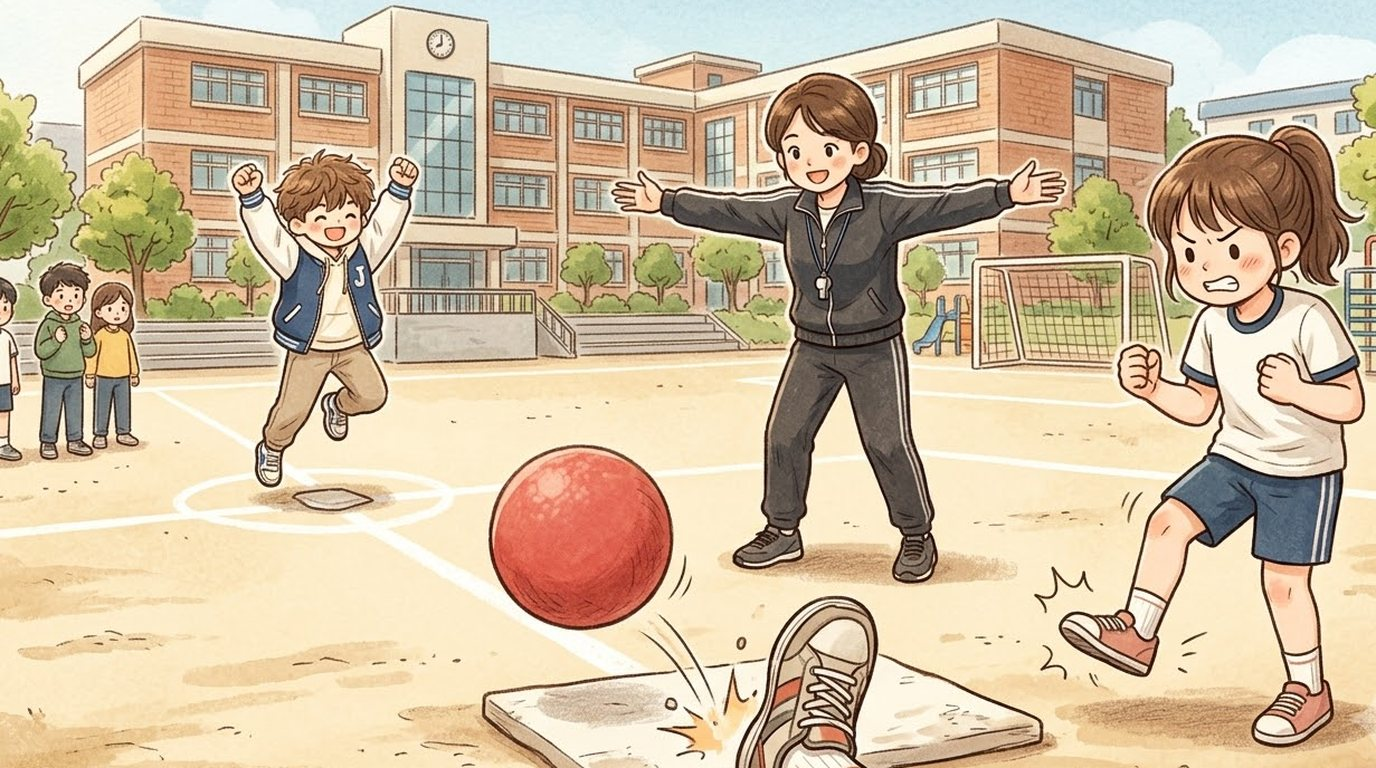
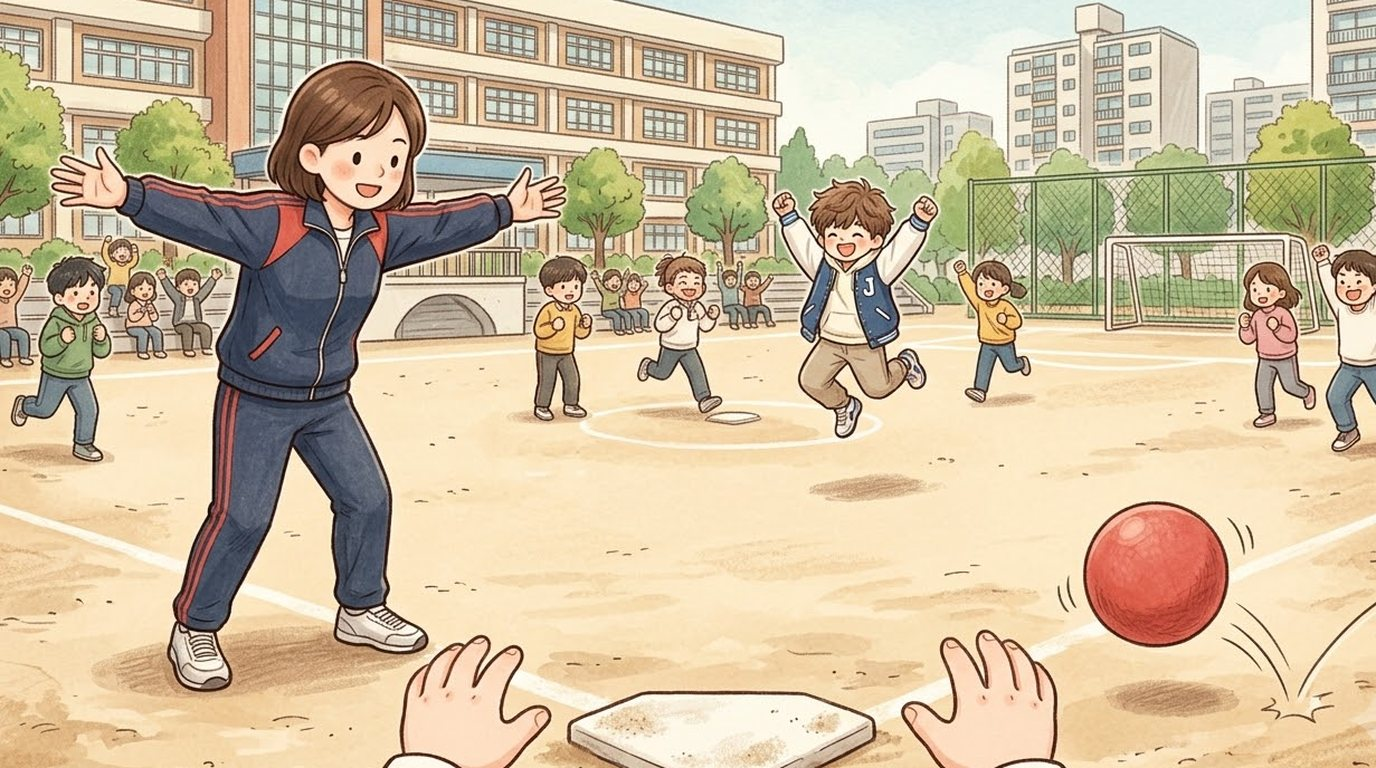
Jiho: 3 more redrawn pictures without the hero's sneakers (05b the ball flying over the goal, 05d the ball at my feet, 06 the kickball at first base)

diff --git a/index.html b/index.html
@@ -119,14 +119,14 @@ body,button{word-break:keep-all;overflow-wrap:break-word}
 <div id="fader"></div>
 <script>
 // same address, newest version: if the page this phone has kept is older than the one online, fetch the new one and reopen
-const BUILD='1027193401';
+const BUILD='1027193633';
 try{fetch(location.pathname,{cache:'no-store'}).then(r=>r.text()).then(t=>{const m=t.match(/const BUILD='(\d+)'/);if(m&&m[1]!==BUILD&&sessionStorage.getItem('upd')!==m[1]){sessionStorage.setItem('upd',m[1]);fetch(location.pathname,{cache:'reload'}).then(()=>location.reload())}}).catch(()=>{})}catch(e){}
 </script>
-<script src="i18n.js?v=1027193401"></script>
-<script src="i18n_prologue_v2.js?v=1027193401"></script>
-<script src="day2/i18n_engine.js?v=1027193401"></script>
-<script src="day2/data.js?v=1027193401"></script>
-<script src="day3/data.js?v=1027193401"></script>
+<script src="i18n.js?v=1027193633"></script>
+<script src="i18n_prologue_v2.js?v=1027193633"></script>
+<script src="day2/i18n_engine.js?v=1027193633"></script>
+<script src="day2/data.js?v=1027193633"></script>
+<script src="day3/data.js?v=1027193633"></script>
 <script>
 // ---------- data ----------
 const MW=1672,MH=941,KID=180;
@@ -531,43 +531,43 @@ function pickHero(){const m=document.getElementById('modal'),c=document.getEleme
  c.innerHTML=`<h2>${tr('괴짜교실 반장되기')}</h2><p>${tr('말 한마디 못 하는 전학생,<br>반장 선거에 나가다.')}</p><p style="margin-top:14px">${tr('누구로 할까요?')}</p>${(()=>{const s=loadSave();return s&&s.day>=2&&s.mode===UI+'-'+LANG?`<p><button class="big" id="cont">${tr(s.day+'일차부터 이어 하기')}</button></p>`:''})()}<div class="pick heroes"><button data-h="hero_f"><img src="faces/hero_f_smile.jpg" alt="여자 주인공"></button><button data-h="hero_m"><img src="faces/hero_m_smile.jpg" alt="남자 주인공"></button></div>`;
  m.classList.add('on');{const cb=document.getElementById('cont');if(cb)cb.onclick=()=>{const s=loadSave();HERO=s.hero;Object.assign(HEART,s.heart||{});(s.found||[]).forEach(k=>FOUND.add(k));HEART_D1={...HEART};chime();(typeof contGame==='function'?contGame(s):startDay(Math.min(s.day,Object.keys(window.D3||{}).length?3:2)))}}c.querySelectorAll('.pick button').forEach(b=>b.onclick=()=>{HERO=b.dataset.h;m.classList.remove('on');chime();bgm('day');load('home_am');say([['nar','','이사 온 다음 날 아침. 아직 풀지 못한 상자들이 쌓여 있다.'],['think','sad','(오늘부터 새 학교야. 여기 말도 아직 서툰데…….)'],['think','smile','({m}한테 인사하고 학교 가야지.)']],morning)})}
 </script>
-<script src="day2/engine.js?v=1027193401"></script>
-<script src="day2/ep_minho.js?v=1027193401"></script>
-<script src="day2/i18n_meet.js?v=1027193401"></script>
-<script src="day2/meet.js?v=1027193401"></script>
-<script src="day2/ep_sua.js?v=1027193401"></script>
-<script src="day2/i18n_sua.js?v=1027193401"></script>
-<script src="day2/ep_hangyeol.js?v=1027193401"></script>
-<script src="day2/i18n_hangyeol.js?v=1027193401"></script>
-<script src="day2/ep_siwoo.js?v=1027193401"></script>
-<script src="day2/i18n_siwoo.js?v=1027193401"></script>
-<script src="day2/ep_haram.js?v=1027193401"></script>
-<script src="day2/i18n_haram.js?v=1027193401"></script>
-<script src="day2/ep_jiho.js?v=1027193401"></script>
-<script src="day2/i18n_jiho.js?v=1027193401"></script>
-<script src="day2/ep_hyeeun.js?v=1027193401"></script>
-<script src="day2/i18n_hyeeun.js?v=1027193401"></script>
-<script src="day2/ep_haneul.js?v=1027193401"></script>
-<script src="day2/i18n_haneul.js?v=1027193401"></script>
-<script src="day2/ep_junho.js?v=1027193401"></script>
-<script src="day2/i18n_junho.js?v=1027193401"></script>
-<script src="day2/ep_yuna.js?v=1027193401"></script>
-<script src="day2/i18n_yuna.js?v=1027193401"></script>
-<script src="day2/ep_yena.js?v=1027193401"></script>
-<script src="day2/i18n_yena.js?v=1027193401"></script>
-<script src="day2/ep_haeun.js?v=1027193401"></script>
-<script src="day2/i18n_haeun.js?v=1027193401"></script>
-<script src="day2/ep_youngmin.js?v=1027193401"></script>
-<script src="day2/i18n_youngmin.js?v=1027193401"></script>
-<script src="day2/ep_seah.js?v=1027193401"></script>
-<script src="day2/i18n_seah.js?v=1027193401"></script>
-<script src="day2/ep_jihoon.js?v=1027193401"></script>
-<script src="day2/i18n_jihoon.js?v=1027193401"></script>
-<script src="words_ja_ru.js?v=1027193401"></script>
-<script src="day2/mybag.js?v=1027193401"></script>
-<script src="day2/spots.js?v=1027193401"></script>
-<script src="day2/textfit.js?v=1027193401"></script>
-<script src="day2/tester.js?v=1027193401"></script>
+<script src="day2/engine.js?v=1027193633"></script>
+<script src="day2/ep_minho.js?v=1027193633"></script>
+<script src="day2/i18n_meet.js?v=1027193633"></script>
+<script src="day2/meet.js?v=1027193633"></script>
+<script src="day2/ep_sua.js?v=1027193633"></script>
+<script src="day2/i18n_sua.js?v=1027193633"></script>
+<script src="day2/ep_hangyeol.js?v=1027193633"></script>
+<script src="day2/i18n_hangyeol.js?v=1027193633"></script>
+<script src="day2/ep_siwoo.js?v=1027193633"></script>
+<script src="day2/i18n_siwoo.js?v=1027193633"></script>
+<script src="day2/ep_haram.js?v=1027193633"></script>
+<script src="day2/i18n_haram.js?v=1027193633"></script>
+<script src="day2/ep_jiho.js?v=1027193633"></script>
+<script src="day2/i18n_jiho.js?v=1027193633"></script>
+<script src="day2/ep_hyeeun.js?v=1027193633"></script>
+<script src="day2/i18n_hyeeun.js?v=1027193633"></script>
+<script src="day2/ep_haneul.js?v=1027193633"></script>
+<script src="day2/i18n_haneul.js?v=1027193633"></script>
+<script src="day2/ep_junho.js?v=1027193633"></script>
+<script src="day2/i18n_junho.js?v=1027193633"></script>
+<script src="day2/ep_yuna.js?v=1027193633"></script>
+<script src="day2/i18n_yuna.js?v=1027193633"></script>
+<script src="day2/ep_yena.js?v=1027193633"></script>
+<script src="day2/i18n_yena.js?v=1027193633"></script>
+<script src="day2/ep_haeun.js?v=1027193633"></script>
+<script src="day2/i18n_haeun.js?v=1027193633"></script>
+<script src="day2/ep_youngmin.js?v=1027193633"></script>
+<script src="day2/i18n_youngmin.js?v=1027193633"></script>
+<script src="day2/ep_seah.js?v=1027193633"></script>
+<script src="day2/i18n_seah.js?v=1027193633"></script>
+<script src="day2/ep_jihoon.js?v=1027193633"></script>
+<script src="day2/i18n_jihoon.js?v=1027193633"></script>
+<script src="words_ja_ru.js?v=1027193633"></script>
+<script src="day2/mybag.js?v=1027193633"></script>
+<script src="day2/spots.js?v=1027193633"></script>
+<script src="day2/textfit.js?v=1027193633"></script>
+<script src="day2/tester.js?v=1027193633"></script>
 <script>
 // the goal shows big for a few seconds, then folds into a small pill (tap it to open it again)
 {const g=document.getElementById('goal');let t=null;const big=()=>{g.classList.remove('mini');clearTimeout(t);t=setTimeout(()=>g.classList.add('mini'),4000)};
